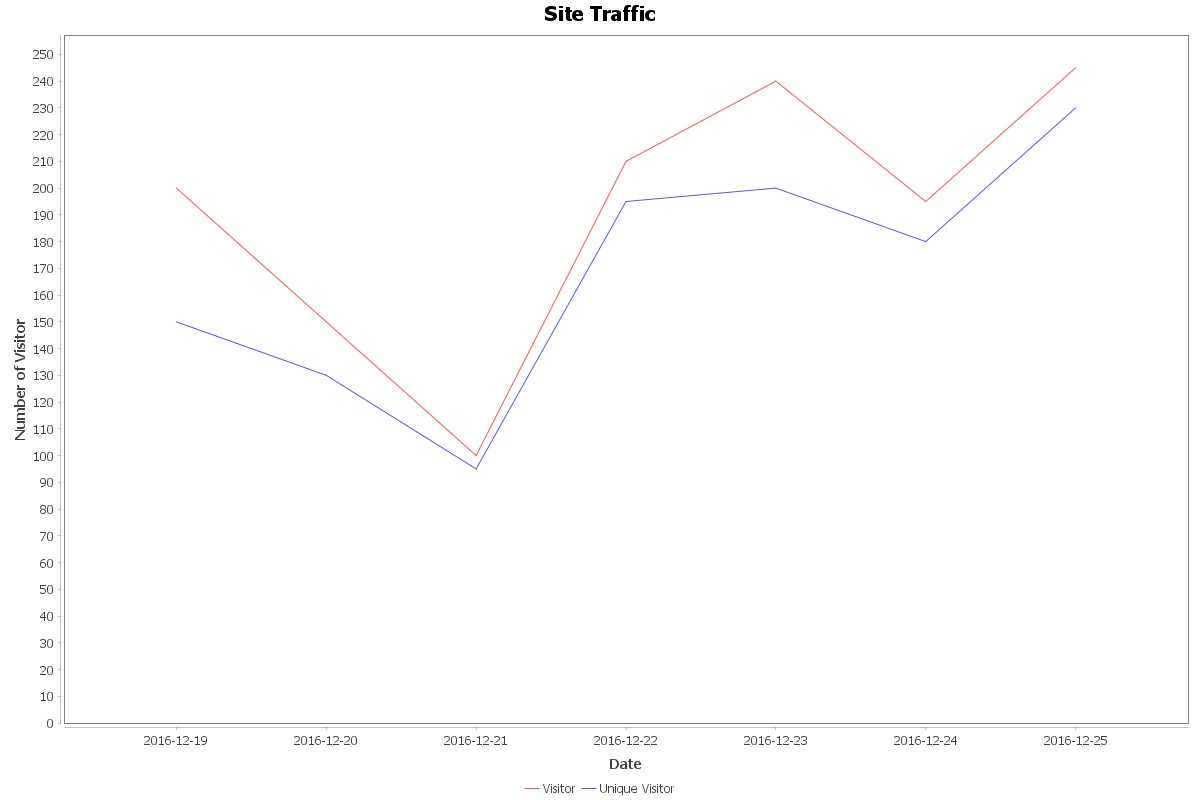
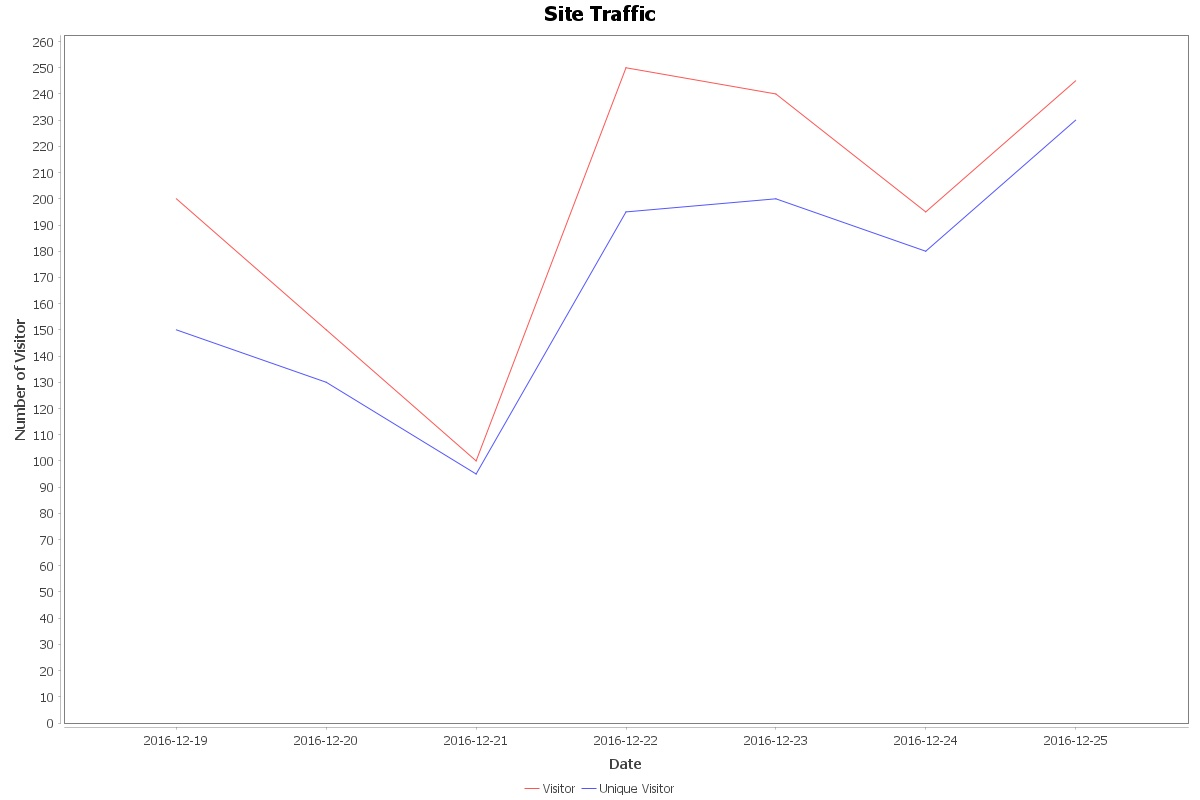
Formated.

diff --git a/src/main/java/com/silvercloudsolution/graphsdemo/LineChartExample.java b/src/main/java/com/silvercloudsolution/graphsdemo/LineChartExample.java
@@ -1,22 +1,17 @@
 package com.silvercloudsolution.graphsdemo;
 
-
 import org.jfree.chart.ChartFactory;
 import org.jfree.chart.ChartUtils;
 import org.jfree.chart.JFreeChart;
 import org.jfree.chart.plot.CategoryPlot;
 import org.jfree.data.category.DefaultCategoryDataset;
-
 import java.awt.*;
 import java.io.*;
-
 public class LineChartExample {
 //    private static final long serialVersionUID = 1L;
-
     public LineChartExample(String title) {
 
         // Create dataset
-
         DefaultCategoryDataset dataset = createDataset();
         // Create chart
         JFreeChart chart = ChartFactory.createLineChart(
@@ -27,8 +22,6 @@ public class LineChartExample {
         );
         CategoryPlot linechart = chart.getCategoryPlot();
         linechart.setBackgroundPaint(Color.white);
-
-
 
         try {
             File file = new File("D:\\graphsdemo\\src\\main\\java\\com\\silvercloudsolution\\graphsdemo\\charttest.jpeg");
@@ -52,7 +45,7 @@ public class LineChartExample {
         dataset.addValue(200, series1, "2016-12-19");
         dataset.addValue(150, series1, "2016-12-20");
         dataset.addValue(100, series1, "2016-12-21");
-        dataset.addValue(210, series1, "2016-12-22");
+        dataset.addValue(250, series1, "2016-12-22");
         dataset.addValue(240, series1, "2016-12-23");
         dataset.addValue(195, series1, "2016-12-24");
         dataset.addValue(245, series1, "2016-12-25");
@@ -64,7 +57,6 @@ public class LineChartExample {
         dataset.addValue(200, series2, "2016-12-23");
         dataset.addValue(180, series2, "2016-12-24");
         dataset.addValue(230, series2, "2016-12-25");
-
         return dataset;
     }
 }

diff --git a/src/main/java/com/silvercloudsolution/graphsdemo/GraphsdemoApplication.java b/src/main/java/com/silvercloudsolution/graphsdemo/GraphsdemoApplication.java
@@ -12,14 +12,7 @@ public class GraphsdemoApplication {
 		SpringApplication.run(GraphsdemoApplication.class, args);
 
 		LineChartExample example = new LineChartExample("Line Chart Example");
-			/*SwingUtilities.invokeLater(() -> {
-			LineChartExample example = new LineChartExample("Line Chart Example");
-			example.setAlwaysOnTop(true);
-			example.pack();
-			example.setSize(600, 400);
-			example.setDefaultCloseOperation(WindowConstants.EXIT_ON_CLOSE);
-			example.setVisible(true);
-*/
+
 		}
 	}
 
